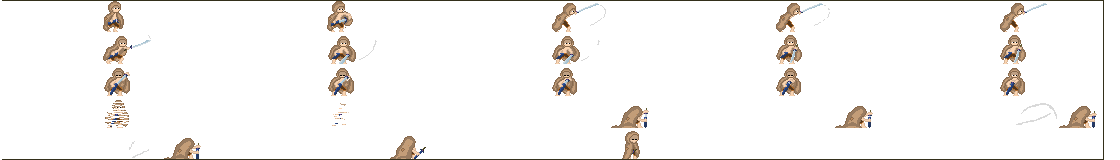
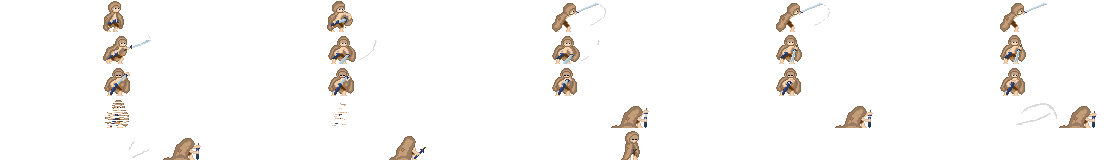
Fixed animation artifacts and bug where you could teleport into wall

Changed region(s): [[0.0, 0.9688, 1.0, 1.0], [0.0, 0.0, 1.0, 0.0312]]

diff --git a/MAGD487_Project_Editor/Assets/Scripts/TransitionBehavior.cs b/MAGD487_Project_Editor/Assets/Scripts/TransitionBehavior.cs
@@ -4,20 +4,39 @@ using UnityEngine;
 
 public class TransitionBehavior : StateMachineBehaviour
 {
+    public PlayerAnimationController PAC;
+    private SpriteRenderer SR;
+    private RaycastHit2D hit;
     [SerializeField] private int animNum;
     // OnStateEnter is called when a transition starts and the state machine starts to evaluate this state
     override public void OnStateEnter(Animator animator, AnimatorStateInfo stateInfo, int layerIndex)
     {
         PlayerMovement.instance.canMove = true;
+        PAC = GameObject.Find("Graphic").GetComponent<PlayerAnimationController>();
+        SR = GameObject.Find("Graphic").GetComponent<SpriteRenderer>();
     }
 
     // OnStateUpdate is called on each Update frame between OnStateEnter and OnStateExit callbacks
     override public void OnStateUpdate(Animator animator, AnimatorStateInfo stateInfo, int layerIndex)
     {
-        if(Attack.instance.AttackInputReceived) {
-            animator.SetTrigger("Attack" + animNum);
-            Attack.instance.InputManager();
-            Attack.instance.AttackInputReceived = false;
+        
+        if (Attack.instance.AttackInputReceived) {
+            if(PAC.wt == weaponType.sword && animNum == 2) //Stops player from teleporting into wall genius code, not spaghetti
+            {
+                hit = Physics2D.Raycast(SR.transform.position, Vector2.right * (SR.flipX ? -1f : 1f));
+                if(hit.distance >= 3)
+                {
+                    animator.SetTrigger("Attack" + animNum);
+                    Attack.instance.InputManager();
+                    Attack.instance.AttackInputReceived = false;
+                }
+            }
+            else
+            {
+                animator.SetTrigger("Attack" + animNum);
+                Attack.instance.InputManager();
+                Attack.instance.AttackInputReceived = false;
+            }            
         }
     }
 

diff --git a/MAGD487_Project_Editor/Assets/katanaEnterHandler.cs b/MAGD487_Project_Editor/Assets/katanaEnterHandler.cs
@@ -1,0 +1,36 @@
+using System.Collections;
+using System.Collections.Generic;
+using UnityEngine;
+
+public class katanaEnterHandler : StateMachineBehaviour
+{
+    // OnStateEnter is called when a transition starts and the state machine starts to evaluate this state
+    //override public void OnStateEnter(Animator animator, AnimatorStateInfo stateInfo, int layerIndex)
+    //{
+    //    
+    //}
+
+    // OnStateUpdate is called on each Update frame between OnStateEnter and OnStateExit callbacks
+    //override public void OnStateUpdate(Animator animator, AnimatorStateInfo stateInfo, int layerIndex)
+    //{
+    //    
+    //}
+
+    // OnStateExit is called when a transition ends and the state machine finishes evaluating this state
+    //override public void OnStateExit(Animator animator, AnimatorStateInfo stateInfo, int layerIndex)
+    //{
+    //    
+    //}
+
+    // OnStateMove is called right after Animator.OnAnimatorMove()
+    //override public void OnStateMove(Animator animator, AnimatorStateInfo stateInfo, int layerIndex)
+    //{
+    //    // Implement code that processes and affects root motion
+    //}
+
+    // OnStateIK is called right after Animator.OnAnimatorIK()
+    //override public void OnStateIK(Animator animator, AnimatorStateInfo stateInfo, int layerIndex)
+    //{
+    //    // Implement code that sets up animation IK (inverse kinematics)
+    //}
+}
